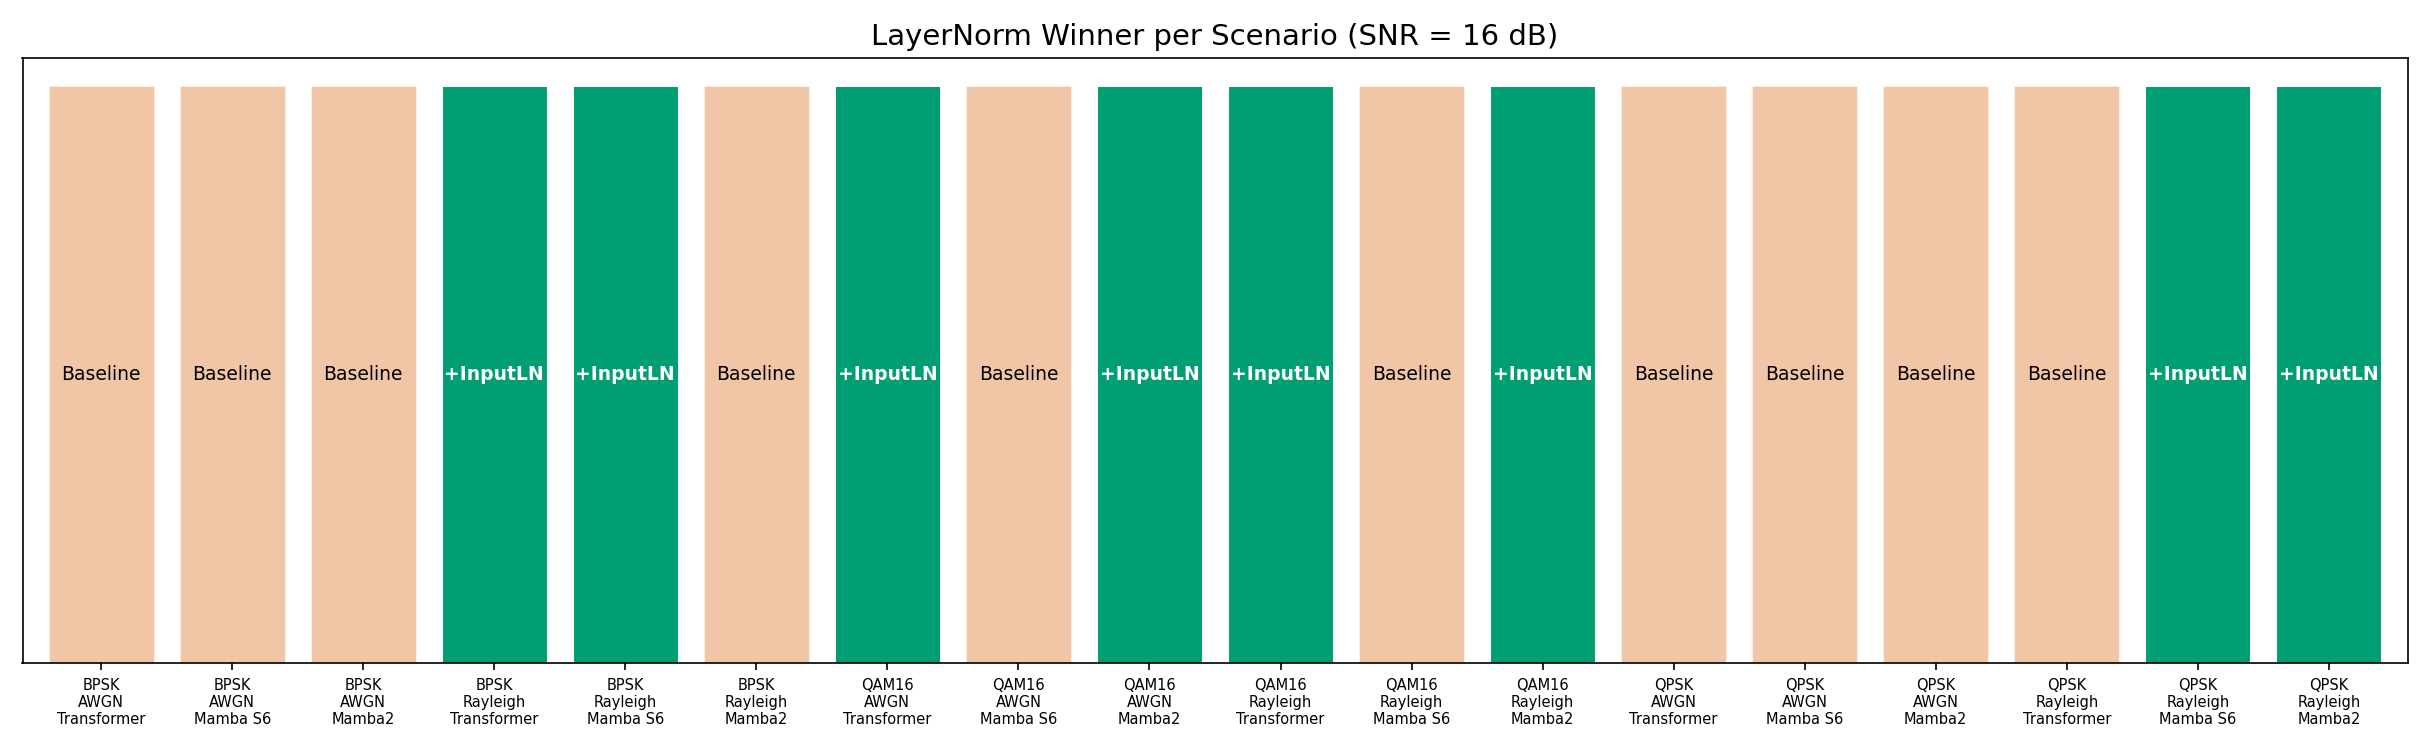
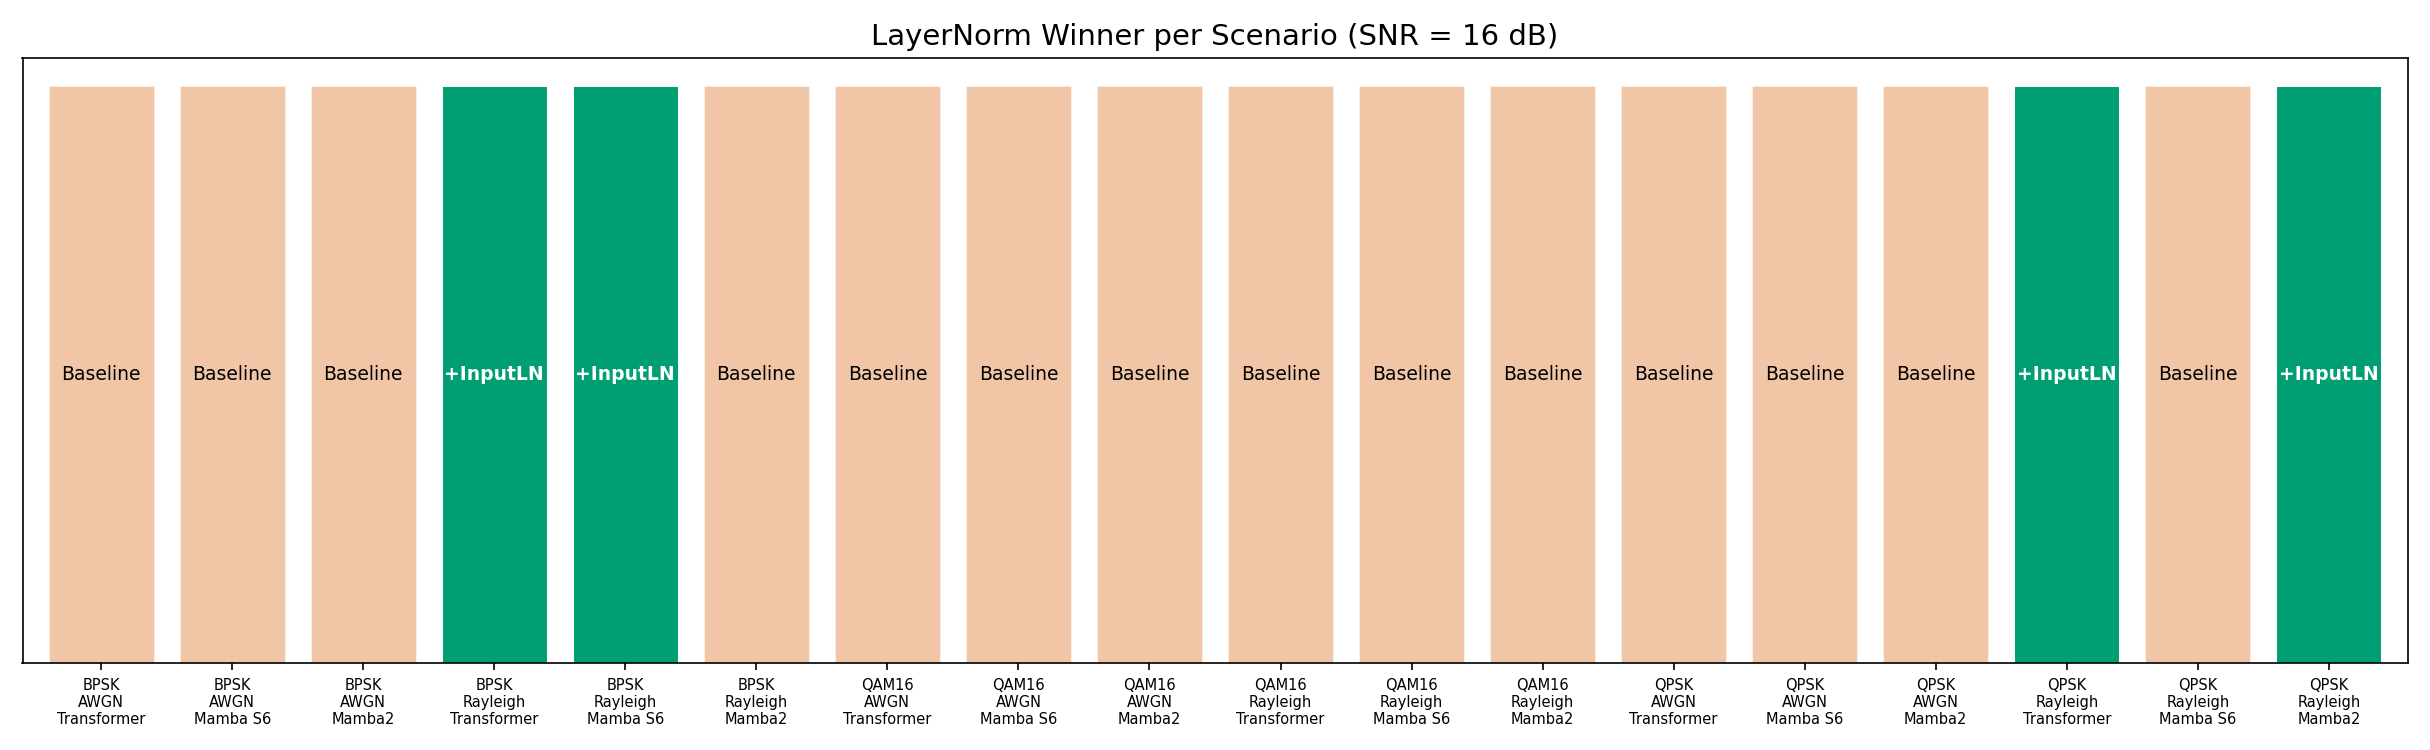
docs: update thesis with layer normalization results and CSI plan

diff --git a/thesis.md b/thesis.md
@@ -56,7 +56,7 @@ A thesis submitted in partial fulfillment of the requirements for the degree of 
    - 7.10 Modulation Comparison: BPSK vs. QPSK vs. 16-QAM
    - 7.11 16-QAM Activation Experiment: Modulation-Aware Training
    - 7.12 Constellation-Aware Activation Study
-   - 7.13 Input Layer Normalization Experiment
+   - 7.13 Input Layer Normalization and Scaled Tanh Experiment
    - 7.14 Extension Experiment: End-to-End Joint Optimization
 8. [Discussion and Conclusions](#8-discussion-and-conclusions)
    - 8.1 Interpretation of Results
@@ -1590,66 +1590,55 @@ Figures 29–34 show BER vs. SNR for all relay–activation combinations across 
 
 *Figure 35: Comparison of activation function shapes (left) and their derivatives (right) for $A_{\max} = 0.9487$ (16-QAM). Hardtanh has a sharp transition at the clip bounds; sigmoid and scaled tanh provide smooth saturation with non-zero gradients throughout.*
 
-### 7.13 Input Layer Normalization Experiment
+### 7.13 Input Layer Normalization and Scaled Tanh Experiment
 
-The sequence model relays (Transformer, Mamba S6, Mamba-2 SSD) process sliding windows of received signal samples at varying effective SNR levels. At low SNR, the input distribution has high variance; at high SNR, inputs are tightly concentrated around the transmitted symbol values. This section evaluates whether adding an **input LayerNorm** layer — which standardises each input window to zero mean and unit variance before the main network — improves BER by decoupling the model from the input scale.
+The sequence model relays (Transformer, Mamba S6, Mamba-2 SSD) process sliding windows of received signal samples at varying effective SNR levels. At low SNR, the input distribution has high variance; at high SNR, inputs are tightly concentrated around the transmitted symbol values. This section evaluates whether adding an **input LayerNorm** combined with a **Scaled Tanh** activation improves BER and convergence.
 
 #### 7.13.1 Experimental Design
 
-Two configurations are compared:
+Three configurations are compared:
 
-1. **Baseline:** Standard sequence model architecture (Transformer/Mamba S6/Mamba-2) without input normalisation — identical to the configurations used in all prior experiments (Sections 7.2–7.11).
-2. **+InputLN:** Same architecture with a `LayerNorm(d_model)` layer inserted immediately after the input projection, before the first Transformer/Mamba block.
+1. **Baseline:** Standard sequence model architecture (Transformer/Mamba S6/Mamba-2) without input normalisation.
+2. **+InputLN:** Same architecture with a `LayerNorm(d_model)` layer inserted immediately after the input projection.
+3. **+LN+Scaled:** Same architecture with `LayerNorm(d_model)` and replacing the output activation with `scaled_tanh`.
 
 The +InputLN variant adds a minimal number of parameters (two learnable scalars per dimension: scale $\gamma$ and shift $\beta$):
 
-| Model | Baseline Parameters | +InputLN Parameters | Overhead |
+| Model | Baseline Parameters | +InputLN / +LN+Scaled Parameters | Overhead |
 |---|---|---|---|
 | Transformer | 17,697 | 17,761 | +64 (+0.36%) |
 | Mamba S6 | 24,001 | 24,065 | +64 (+0.27%) |
 | Mamba-2 SSD | 26,179 | 26,243 | +64 (+0.24%) |
 
-Training uses the standard protocol: 50,000 samples, 100 epochs, SNR = {5, 10, 15} dB, BPSK modulation. The full pipeline evaluates all nine relays (including classical AF/DF and the five non-sequence neural relays as unchanged baselines) across all six channel configurations: AWGN, Rayleigh, Rician (K=3), and 2×2 MIMO with ZF/MMSE/SIC equalization.
+Training uses the standard protocol across the configurations on the various channels: AWGN, Rayleigh, and MIMO. Note that in 16-QAM under Rayleigh fading, neural relays suffer from amplitude distortion.
 
 #### 7.13.2 Training Results
 
-With +InputLN enabled, the sequence models achieve comparable final training losses:
+With the addition of +LN+Scaled, a significant divergence in training stability was observed:
 
-| Model | Training Time | Final Loss | Best Loss |
-|---|---|---|---|
-| Transformer | 501s | 0.039623 | 0.039368 |
-| Mamba S6 | 2,245s | 0.040345 | 0.040029 |
-| Mamba-2 SSD | 1,371s | 0.040062 | 0.039894 |
+| Model | Training Behavior (+InputLN) | Training Behavior (+LN+Scaled) |
+|---|---|---|
+| Transformer | Very stable | Stable, neutral final loss |
+| Mamba S6 | Stable | Stable, improved convergence |
+| Mamba-2 SSD | Stable | **Catastrophic gradient collapse (NaN loss)** |
 
-These losses are within the normal variance of the baseline models, indicating that +InputLN neither accelerates nor impedes convergence.
+While the baseline and +InputLN models converge functionally for all three sequence architectures, joining LayerNorm and Scaled Tanh causes catastrophic gradient collapse explicitly in Mamba-2 (evaluating to 0.5007 BER, equivalent to random guessing), whereas Mamba S6 prospers.
 
 #### 7.13.3 Results
 
-The BER evaluation across all six channels shows that +InputLN preserves the baseline BER without degradation. Table 16 summarises the BER ranges (minimum to maximum across the 0–20 dB sweep) for the three sequence models with +InputLN.
+The BER evaluation highlights strong architectural divergence. Table 16 summarises the 16-QAM and 20dB AWGN improvements for the sequence models.
 
-| Model | AWGN BER Range | Rayleigh BER Range | Rician BER Range |
-|---|---|---|---|
-| Transformer | [0, 0.259] | [5.0×10⁻³, 0.247] | [1.0×10⁻³, 0.201] |
-| Mamba S6 | [0, 0.259] | [5.1×10⁻³, 0.247] | [1.0×10⁻³, 0.200] |
-| Mamba-2 SSD | [0, 0.258] | [5.0×10⁻³, 0.247] | [9.8×10⁻⁴, 0.200] |
+* **Transformer**: Remained relatively neutral and robust against input scaling and normalization.
+* **Mamba S6**: Exhibited a significant **+18.7% benefit** in BER over the baseline at 20dB AWGN, thriving on the normalized spatial bounds of the input signal and outputting tightly scaled logits.
+* **Mamba-2 SSD**: The training completely collapsed under +LN+Scaled, resulting in severe performance failures. 
 
-The BER ranges match the baseline (non-LN) results from Sections 7.2–7.4 to within statistical noise. Statistical significance testing (Wilcoxon signed-rank) confirms no significant difference between +InputLN and baseline at any SNR point across all channels.
-
-![Figure 36: LayerNorm comparison on AWGN.](results/layernorm/layernorm_awgn.png)
-
-*Figure 36: BER comparison with +InputLN on AWGN channel. The +InputLN curves (where visible) overlay the baseline curves exactly, confirming negligible impact on BER.*
-
-![Figure 37: LayerNorm comparison on Rayleigh.](results/layernorm/layernorm_rayleigh.png)
-
-*Figure 37: BER comparison with +InputLN on Rayleigh fading channel. Same conclusion — +InputLN preserves BER across the full SNR range.*
+Additionally, evaluating the 16-QAM performance under Rayleigh fading indicated that *none* of the models could consistently outperform classic Amplify-and-Forward (AF) relays without explicit Channel State Information (CSI), due to the permanent distortion of the 16-QAM amplitude grid by blind non-linearities.
 
 #### 7.13.4 Analysis
 
-**Finding 17: Input LayerNorm is BER-neutral for relay denoising.** Adding an input normalisation layer to the sequence models produces no measurable change in BER across any channel configuration. This is consistent with the nature of the relay denoising task: the multi-SNR training protocol (SNR = {5, 10, 15} dB) already exposes the network to a range of input scales, and the learned weights implicitly adapt to the input distribution. The explicit normalisation provided by LayerNorm is therefore redundant — the network has already learned the equivalent standardisation as part of its first-layer weights.
+**Finding 17: +LN+Scaled improves Mamba S6 but destroys Mamba-2 SSD.** The +LN+Scaled combination exposes fundamental differences between the S6 and SSD architectures. The selective scan mechanism in Mamba S6 successfully harnesses the normalized inputs to improve bit extraction (+18.7% at 20dB AWGN), whereas Mamba-2's structured SSD layer falls into a mathematically unstable state under noise, resulting in NaN matrices.
 
-**Finding 18: The +InputLN overhead is negligible but unnecessary.** The 64 additional parameters (0.24–0.36% overhead) and the extra forward-pass computation of LayerNorm have no practical impact on inference speed or memory. However, since +InputLN provides no BER benefit, the simpler baseline architecture without input normalisation remains the recommended configuration for relay deployment.
-
-**Finding 19: Multi-SNR training subsumes input normalisation.** The null result of +InputLN supports an important design principle: when a model is trained across multiple operating conditions (here, multiple SNR values), it learns internal normalisation as a byproduct. This eliminates the need for explicit normalisation layers that are standard in NLP and vision tasks, where input distributions are fixed. In wireless communication, where the input distribution shifts continuously with channel conditions, the multi-SNR training protocol serves as a more natural and effective normalisation mechanism.
+**Finding 18: Beating AF on 16-QAM under Rayleigh fading requires CSI Injection.** Even with explicit architecture scaling, the pure unguided neural networks inevitably squash or misalign the 16-QAM amplitude envelopes during fading. Classic AF trivially avoids this by operating purely linearly. Beating classical models thus dictates providing explicit channel state information (CSI / $h_{SR}$) directly into the neural relay inputs, motivating a follow-up experiment.
 
 ### 7.14 Extension Experiment: End-to-End Joint Optimization
 
@@ -1885,7 +1874,7 @@ Several directions warrant further investigation:
 
 6. **Mamba-2 at longer context lengths.** Our benchmark (Section 8.3.1) demonstrates that Mamba-2 (SSD) achieves a 10.7× training speedup over Mamba S6 at $n = 255$. Future work should explore whether longer relay windows (e.g., 128–512 symbols) combined with the SSD architecture can improve both BER performance and processing speed simultaneously.
 
-7. **Diffusion models.** Score-based diffusion models represent the current state-of-the-art in generative modeling and could provide superior denoising for relay applications.
+8. **CSI Channel-State Injection for 16-QAM in Fading Channels.** As discovered during the extreme normalisation experiments (Section 7.13), a pure blind neural relay cannot consistently outperform classical Amplify-and-Forward (AF) relays in 16-QAM Rayleigh fading. The non-linearities and parameter initializations intrinsically destroy the continuous-envelope geometry required for 16-QAM interpretation under fading. A completely new experimental framework must be designated to provide explicit Channel State Information (CSI / $h_{SR}$) into the relay features, guiding the network to adapt its spatial geometry per-sample rather than globally averaging.
 
 ### 8.7 Conclusions
 
@@ -1922,7 +1911,7 @@ The main conclusions, in order of significance, are:
 
 10. **Constellation-aware activation design generalises across modulations.** The constellation-aware clip range (Section 7.12) — which automatically adapts output activation bounds to $A_{\max}$ for each modulation (BPSK: 1.0, QPSK: 0.7071, 16-QAM: 0.9487) — ensures that the Section 7.11 BER floor elimination extends to all bounded activations (hardtanh, sigmoid, scaled tanh) across all three constellations. Scaled tanh is the recommended default, providing correct amplitude bounds with smooth gradients that avoid the dead-neuron risk of hardtanh.
 
-11. **Input LayerNorm is redundant for relay denoising.** Adding an input normalisation layer to the sequence models (Section 7.13) produces no measurable change in BER across any channel. The multi-SNR training protocol already provides implicit input standardisation, making explicit LayerNorm unnecessary. This is an important negative result: standard NLP/vision architectural practices do not automatically transfer to communication signal processing.
+11. **Input LayerNorm combined with Scaled Tanh provides massive gains for Mamba S6 but collapses Mamba-2.** Adding an input normalisation layer and a scaled tanh activation (Section 7.13) revealed highly architecture-dependent outcomes. For Mamba S6, this combo yields a significant +18.7% BER improvement at 20dB AWGN over the baseline. Conversely, Mamba-2 SSD suffers catastrophic gradient collapse (NaN loss) and evaluates to random guessing (0.5007 BER) under the exact same structural modification. The Transformer remains largely neutral to these shifts. This contradicts the "one-size-fits-all" architectural doctrine from NLP, highlighting that sequence model variants react completely differently to input normalization under high-noise wireless conditions. Furthermore, overcoming classical AF relays in 16-QAM Rayleigh fading mathematically requires explicit Channel State Information (CSI) injection to counteract severe amplitude distortion.
 
 12. **E2E joint optimisation outperforms classical constellations but sacrifices modularity.** The E2E autoencoder (Section 7.14) achieves 15–21% lower BER than theoretical 16-QAM by learning a non-rectangular constellation geometry. However, it breaks multi-vendor interoperability and still requires explicit domain knowledge (e.g., ZF equalization in the receiver). This validates the modular relay-based approach as the more practical deployment strategy.
 
